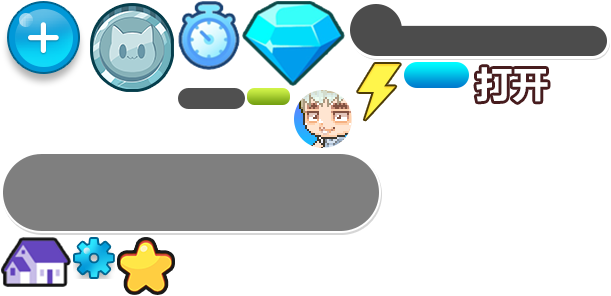
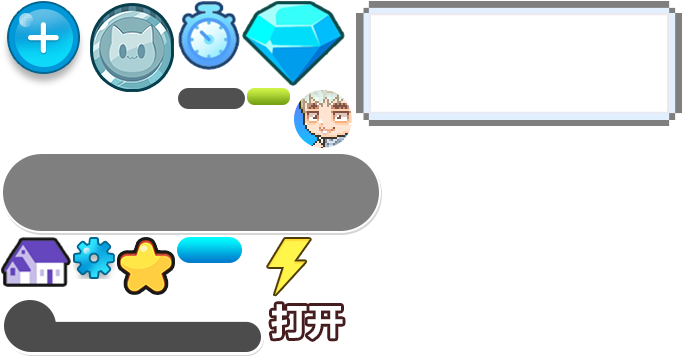
精力提示和合成确认

diff --git a/src/ui/Compose/ComposePanel.ts b/src/ui/Compose/ComposePanel.ts
@@ -15,6 +15,7 @@ import { i18n } from "../../i18n";
 import { GameScroller } from "../../../lib/rexui/lib/ui/scroller/GameScroller";
 import { CoreUI } from "../../../lib/rexui/lib/ui/interface/event/MouseEvent";
 import { NineSliceButton } from "../../../lib/rexui/lib/ui/button/NineSliceButton";
+import { AlertView } from "../components/alert.view";
 export class ComposePanel extends BasePanel {
     private key: string = "compose";
     private content: Phaser.GameObjects.Container;
@@ -23,16 +24,18 @@ export class ComposePanel extends BasePanel {
     private mDetailBubble: DetailBubble;
     private materialCon: Phaser.GameObjects.Container;
     private mGrideTable: GameGridTable;
-    private mSelectItem: ComposeItem;
+    private mSelectItemData: op_pkt_def.IPKT_Skill;
     private materialGameScroll: GameScroller;
     private makeBtn: NineSliceButton;
     private materialTipsCon: Phaser.GameObjects.Container;
     private materialTipsName: Phaser.GameObjects.Text;
     private materialTipsDes: Phaser.GameObjects.Text;
     private tipsbg: NinePatch;
+    private alertView: AlertView;
     constructor(scene: Phaser.Scene, world: WorldService) {
         super(scene, world);
         this.world = world;
+        this.scale = 1;
     }
 
     resize(width: number, height: number) {
@@ -93,6 +96,7 @@ export class ComposePanel extends BasePanel {
         const bg = this.scene.make.image({ key: this.key, frame: "main_bg" });
         bg.y = -height * 0.5 + bg.height * 0.5;
         bg.setInteractive(new Phaser.Geom.Rectangle(0, 0, this.scene.cameras.main.width, this.scene.cameras.main.height), Phaser.Geom.Rectangle.Contains);
+        bg.displayWidth = width;
         this.content.add([bggraphics, bg]);
         const mfont = `bold ${17 * this.dpr}px Source Han Sans`;
         const titleBg = this.scene.make.image({ key: this.key, frame: "title_bg" });
@@ -126,6 +130,7 @@ export class ComposePanel extends BasePanel {
         this.content.add(this.materialCon);
         this.materialCon.setPosition(0, height * 0.5 - 230 * this.dpr);
         const materialbg = this.scene.make.image({ x: 0, y: 0, key: this.key, frame: "sourcelist_bg" });
+        materialbg.displayWidth = width;
         const materialTitle = this.scene.make.text({
             x: 0,
             y: -materialConHeight * 0.5 + 12 * this.dpr,
@@ -238,10 +243,8 @@ export class ComposePanel extends BasePanel {
                 }
                 // cellContainer.setSize(width, height);
                 cellContainer.setItemData(item);
-                if (this.mSelectItem)
-                    if (item && item.id === this.mSelectItem.itemData.id) {
-                        cellContainer.select = true;
-                    }
+                if (item && this.mSelectItemData && item.id === this.mSelectItemData.id)
+                    cellContainer.select = true;
                 return cellContainer;
             },
         };
@@ -261,6 +264,7 @@ export class ComposePanel extends BasePanel {
 
     destroy() {
         super.destroy();
+        if (this.alertView) this.alertView.destroy();
     }
 
     public setComposeData(datas: op_pkt_def.IPKT_Skill[]) {
@@ -293,9 +297,9 @@ export class ComposePanel extends BasePanel {
         const data = item.itemData;
         this.emit("reqformula", data.id);
         item.select = true;
-        if (this.mSelectItem) this.mSelectItem.select = false;
-        this.mSelectItem = item;
+        this.mSelectItemData = item.itemData;
         this.makeBtn.enable = data.active && data.qualified;
+        this.mGrideTable.refresh();
     }
     private setMaterialItems(datas: op_client.ICountablePackageItem[]) {
         const len = datas.length;
@@ -327,8 +331,17 @@ export class ComposePanel extends BasePanel {
     }
 
     private onMakeHandler() {
-        if (this.mSelectItem)
-            this.emit("reqUseFormula", this.mSelectItem.itemData.id);
+        if (!this.alertView) this.alertView = new AlertView(this.scene, this.mWorld);
+        if (this.mSelectItemData) {
+            this.alertView.show({
+                text: `您确定要合成${this.mSelectItemData.name}吗？`,
+                title: i18n.t("compose.synthesis"),
+                oy: 302 * this.dpr * this.mWorld.uiScale,
+                callback: () => {
+                    this.emit("reqUseFormula", this.mSelectItemData.id);
+                },
+            });
+        }
     }
 
     private onInputPointUp() {

diff --git a/src/ui/FurniBag/FurniBagPanel.ts b/src/ui/FurniBag/FurniBagPanel.ts
@@ -328,9 +328,7 @@ export class FurniBagPanel extends BasePanel {
     if (this.mWorld && this.mWorld.roomManager && this.mWorld.roomManager.currentRoom) {
       this.mEnableEdit = this.mWorld.roomManager.currentRoom.enableEdit;
     }
-    // if (this.mSceneType === op_def.SceneTypeEnum.EDIT_SCENE_TYPE || this.mEnableEdit) {
-    //   this.add(this.mAdd);
-    // }
+
     const topCapW = 67 * this.dpr * zoom;
     const topCapH = 30 * this.dpr * zoom;
     const topPosY = 30 * this.dpr * zoom;
@@ -340,12 +338,11 @@ export class FurniBagPanel extends BasePanel {
       color: "#FFFFFF"
     };
     this.topCheckBox = new CheckboxGroup();
-    const topCategorys = [op_def.EditModePackageCategory.EDIT_MODE_PACKAGE_CATEGORY_ITEM, op_def.EditModePackageCategory.EDIT_MODE_PACKAGE_CATEGORY_FURNITURE, op_def.EditModePackageCategory.EDIT_MODE_PACKAGE_CATEGORY_AVATAR];
-    const topBtnTexts = [i18n.t("furni_bag.Props"), i18n.t("furni_bag.furni"), i18n.t("furni_bag.decorate")];
-    if (!this.mEnableEdit) {
-      // const index = topCategorys.indexOf(op_def.EditModePackageCategory.EDIT_MODE_PACKAGE_CATEGORY_FURNITURE);
-      // topCategorys.splice(index, 1);
-      // topBtnTexts.splice(index, 1);
+    let topCategorys = [op_def.EditModePackageCategory.EDIT_MODE_PACKAGE_CATEGORY_ITEM, op_def.EditModePackageCategory.EDIT_MODE_PACKAGE_CATEGORY_FURNITURE, op_def.EditModePackageCategory.EDIT_MODE_PACKAGE_CATEGORY_AVATAR];
+    let topBtnTexts = [i18n.t("furni_bag.Props"), i18n.t("furni_bag.furni"), i18n.t("furni_bag.decorate")];
+    if (this.mSceneType === op_def.SceneTypeEnum.EDIT_SCENE_TYPE) {
+      topCategorys = [op_def.EditModePackageCategory.EDIT_MODE_PACKAGE_CATEGORY_FURNITURE];
+      topBtnTexts = [i18n.t("furni_bag.furni")];
     }
     const topPosX = width * 0.5 - topCapW * 0.5 * (topCategorys.length - 1);
     for (const key in topCategorys) {
@@ -371,7 +368,6 @@ export class FurniBagPanel extends BasePanel {
     } else {
       this.topCheckBox.selectIndex(0);
     }
-
     const propFrame = this.scene.textures.getFrame(this.key, "prop_bg");
     const capW = (propFrame.width + 10 * this.dpr) * zoom;
     const capH = (propFrame.height + 10 * this.dpr) * zoom;
@@ -783,22 +779,9 @@ export class FurniBagPanel extends BasePanel {
       }
       tmpW += item.width;
     }
-    // let pad0: number = 0;
-    // let pad1: number = 1;
-    // if (tmpW > w) {
-    //   tmpW = tmpW + inputWid;
-    // pad0 = 75 * this.dpr * zoom + inputWid;
-    // pad1 = -180 * this.dpr * zoom - inputWid;
-    // } else {
-    //   tmpW = w + inputWid;
-    // pad0 = 410 * this.dpr * zoom + inputWid;
-    // pad1 = 30 * this.dpr * zoom - inputWid;
-    // }
-    // const updateWid: number = tmpW;
+
     this.mCategoryScroll.setAlign();
-    // this.mCategoryScroll.setValue(updateWid / 2);
-    // this.mCategoryScroll.resize(tmpW, h, -updateWid / 2 + pad0, updateWid / 2 + pad1);
-    // this.mCategoryScroll.resize(updateWid, h);
+
   }
 
   get enableEdit() {

diff --git a/src/ui/tips/TextToolTip.ts b/src/ui/tips/TextToolTip.ts
@@ -1,0 +1,66 @@
+import { NinePatch } from "../components/nine.patch";
+import { Font } from "../../utils/font";
+
+export class TextToolTips extends Phaser.GameObjects.Container {
+    private bg: NinePatch;
+    private text: Phaser.GameObjects.Text;
+    private timeID: any;
+    private dpr: number;
+    constructor(scene: Phaser.Scene, key: string, frame: string, dpr: number, zoom: number) {
+        super(scene);
+        const tempframe = scene.textures.getFrame(key, frame);
+        const tipsWidth = tempframe.width;
+        const tipsHeight = tempframe.height;
+        this.dpr = dpr;
+        this.bg = new NinePatch(this.scene, 0, 0, tipsWidth, tipsHeight, key, frame, {
+            left: 20 * dpr,
+            top: 20 * dpr,
+            right: 20 * dpr,
+            bottom: 20 * dpr
+        });
+        this.text = this.scene.make.text({
+            x: 0,
+            y: 0,
+            text: "蓝矿石",
+            style: {
+                color: "#000000",
+                fontSize: 13 * dpr,
+                fontFamily: Font.DEFULT_FONT,
+                wordWrap: {
+                    width: 90 * dpr,
+                    useAdvancedWrap: true
+                }
+            }
+        }, false).setOrigin(0);
+        this.add([this.bg, this.text]);
+        this.setSize(tipsWidth + 20 * dpr, tipsHeight + 20 * dpr);
+    }
+
+    public setSize(width: number, height: number) {
+        super.setSize(width, height);
+        this.bg.resize(width, height);
+        this.bg.setPosition(0, 0);
+        const textWidth = width - 16 * this.dpr;
+        const textHeight = height - 16 * this.dpr;
+        this.text.setSize(textWidth, textHeight);
+        this.text.setWordWrapWidth(textWidth, true);
+        this.text.setPosition(-textWidth * 0.5, -textHeight * 0.5);
+        return this;
+    }
+
+    public setText(text: string) {
+        this.text.text = text;
+        if (this.text.height > this.height) {
+            this.setSize(this.width, this.text.height + 16 * this.dpr);
+        }
+    }
+
+    public setTextData(text: string, delay: number) {
+        this.visible = true;
+        this.setText(text);
+        if (this.timeID) clearTimeout(this.timeID);
+        this.timeID = setTimeout(() => {
+            this.visible = false;
+        }, delay);
+    }
+}

diff --git a/src/ui/PiCaMainUI/PicaMainUIPanel.ts b/src/ui/PiCaMainUI/PicaMainUIPanel.ts
@@ -4,6 +4,7 @@ import { Font } from "../../utils/font";
 import { NinePatch } from "../components/nine.patch";
 import { Logger } from "../../utils/log";
 import { Handler } from "../../Handler/Handler";
+import { TextToolTips } from "../tips/TextToolTip";
 
 export class PicaMainUIPanel extends BasePanel {
     private readonly key = "main_ui";
@@ -15,6 +16,7 @@ export class PicaMainUIPanel extends BasePanel {
     private mStrengthValue: ProgressValue;
     private mExpProgress: ExpProgress;
     private playerIcon: Phaser.GameObjects.Image;
+    private textToolTip: TextToolTips;
     constructor(scene: Phaser.Scene, worldService: WorldService) {
         super(scene, worldService);
     }
@@ -153,7 +155,10 @@ export class PicaMainUIPanel extends BasePanel {
         // healthValue.setValue(200, 1000);
 
         this.mExpProgress = new ExpProgress(this.scene, this.key, this.dpr, this.scale, this.mWorld);
+        this.textToolTip = new TextToolTips(this.scene, this.key, "tips_bg", this.dpr, this.scale);
         this.add(this.mExpProgress);
+        this.add(this.textToolTip);
+        this.textToolTip.setSize(160 * this.dpr, 45).visible = false;
         this.resize(w, h);
         super.init();
     }
@@ -166,7 +171,12 @@ export class PicaMainUIPanel extends BasePanel {
     }
 
     private onStrengthHandler() {
-        Logger.getInstance().log("onStrengthHandler");
+        const width = this.scaleWidth;
+        const height = this.scaleHeight;
+        const energy = this.showData.energy;
+        const text = "当前精力值" + `${energy.currentValue}/${energy.max}\n` + "精力不满时，每15分钟恢复1点";
+        this.textToolTip.setTextData(text, 3000);
+        this.textToolTip.setPosition(120 * this.dpr, 80 * this.dpr);
     }
 }
 

diff --git a/src/ui/Market/item.ts b/src/ui/Market/item.ts
@@ -63,15 +63,15 @@ export class MarketItem extends Phaser.GameObjects.Container {
     // this.mCoinIcon.y = priceBg.y;
 
     this.mPriceText = this.scene.make.text({
-      x: 67 * this.dpr * zoom,
-      y: 38 * this.dpr * zoom,
+      x: 92 * this.dpr * zoom,
+      y: 44 * this.dpr * zoom,
       // y: 12 * this.dpr,
       style: {
         fontSize: 14 * this.dpr * zoom,
         fontFamily: Font.DEFULT_FONT,
         color: "#996600"
       }
-    });
+    }).setOrigin(0.5);
     // this.mPriceText.y = this.mCoinIcon.y + this.mPriceText.displayHeight / 2;
 
     this.mTagIcon = this.scene.make.image({
